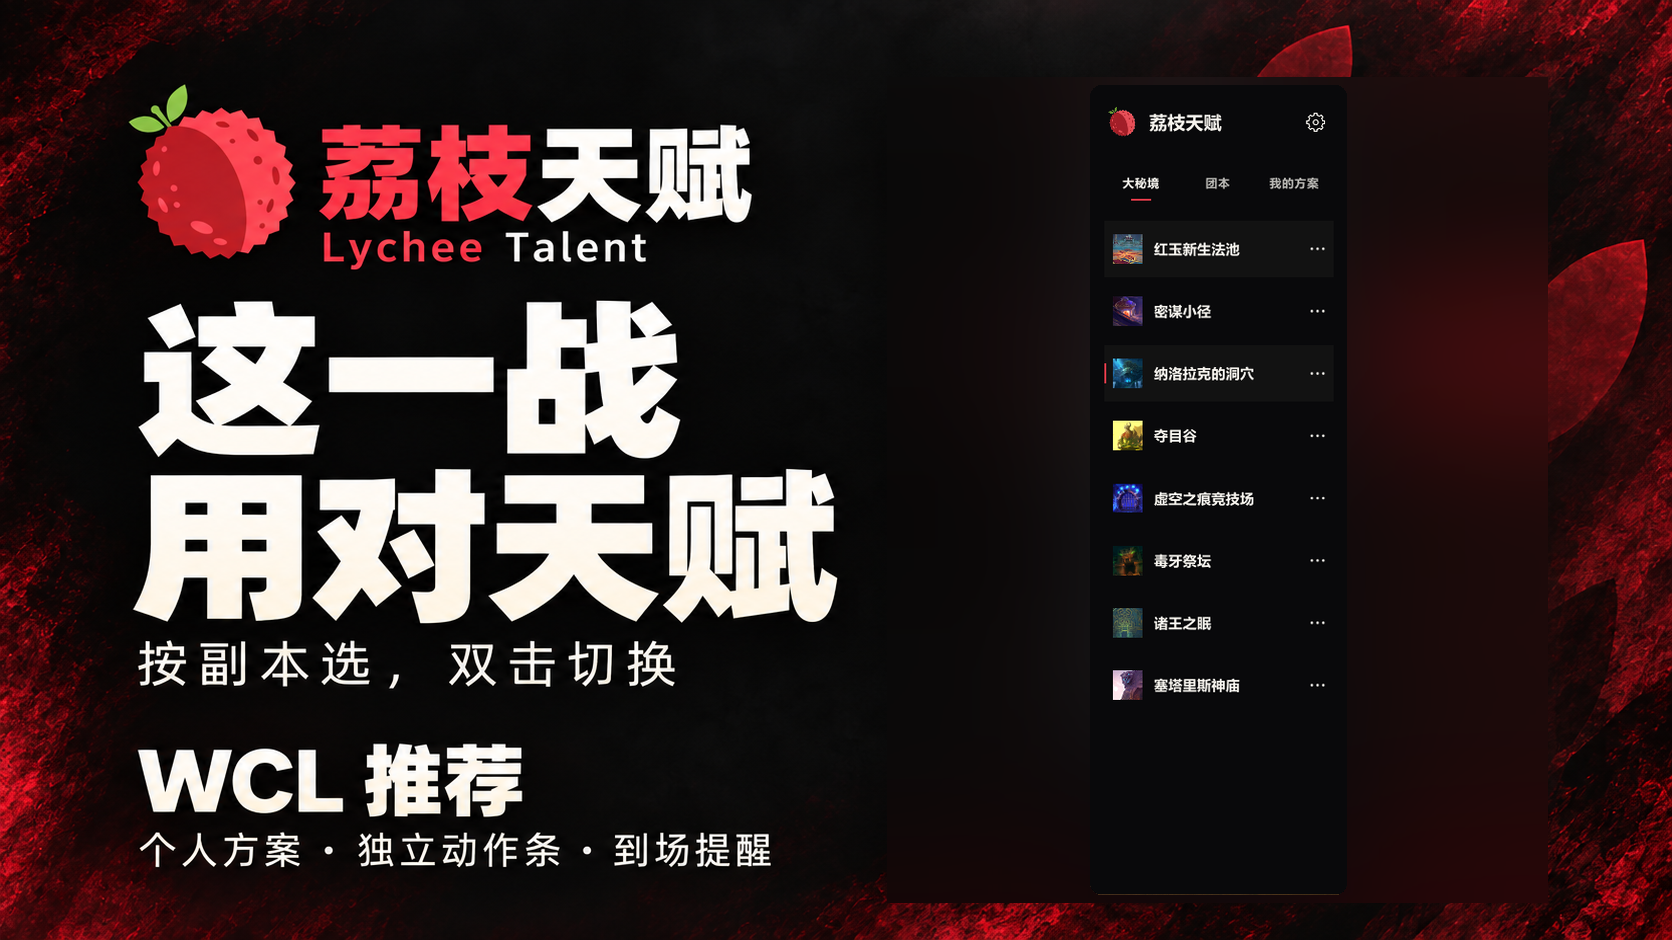
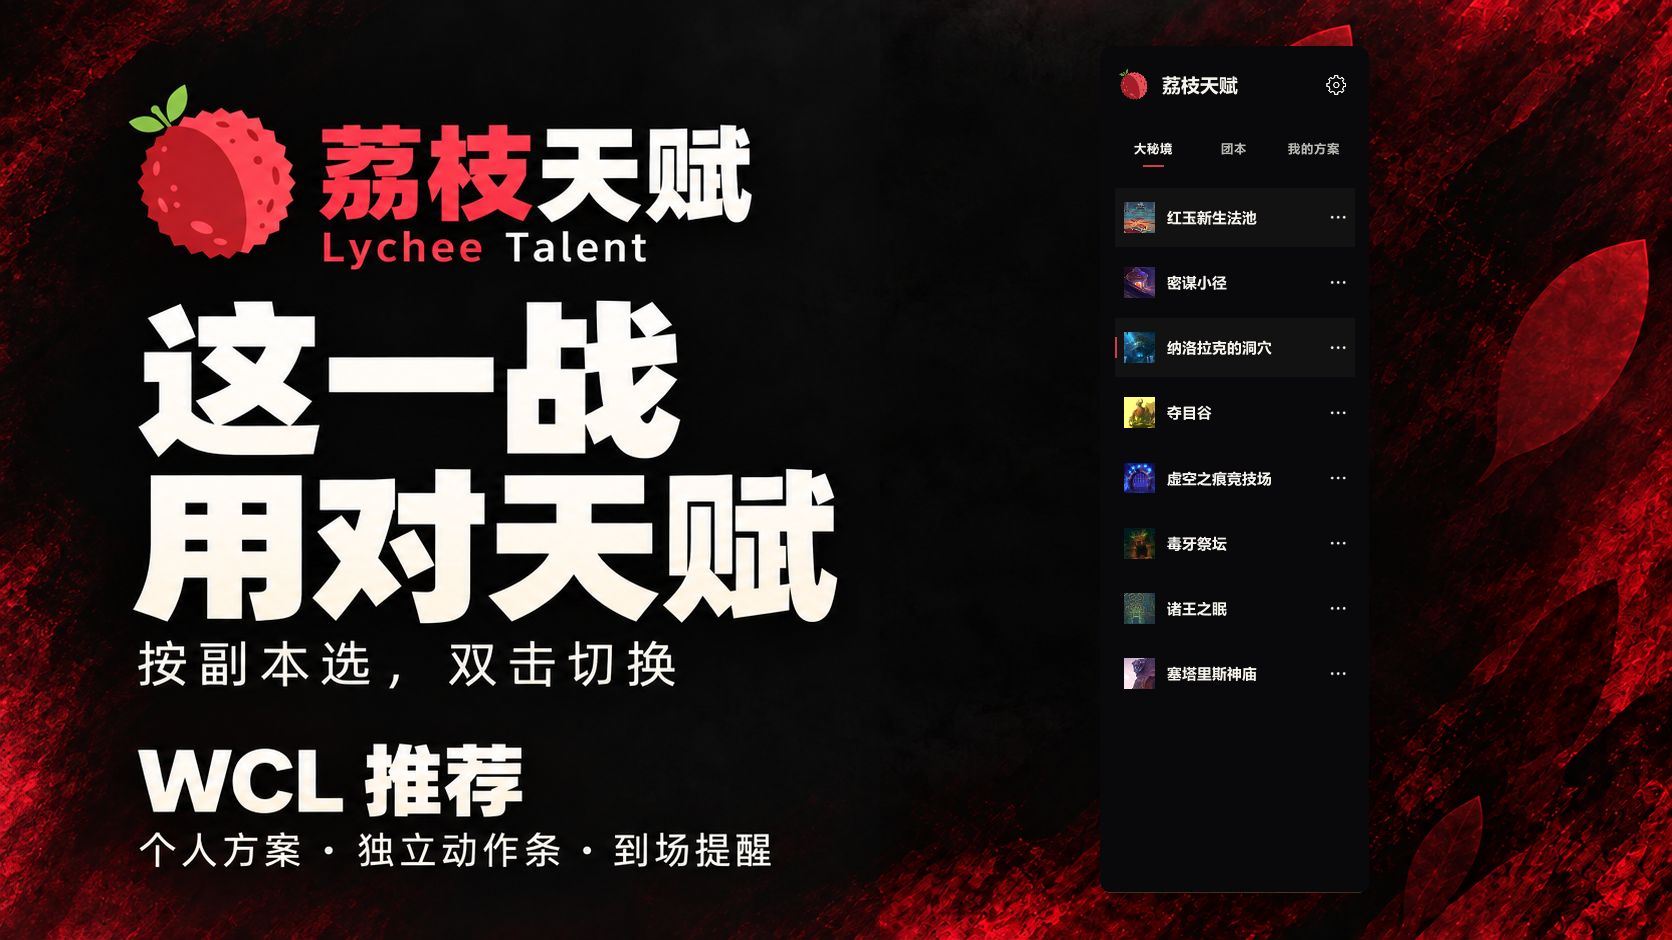
Replace blurred cover fill and preserve original screenshot pixels

Changed region(s): [[0.6531, 0.0, 1.0, 1.0], [0.5287, 0.8947, 0.7153, 1.0], [0.7464, 0.9564, 0.7775, 1.0]]

diff --git a/docs/media/README.md b/docs/media/README.md
@@ -26,4 +26,4 @@
 
 ![荔枝天赋封面](release-cover.png)
 
-封面黑红背景与标题排版参考荔枝启动器。背景和文案视觉由 imagegen 生成；右侧已替换成作者最后指定的红框内「大秘境」面板原始截图，仅裁剪和等比缩放，没有生成式重绘 UI。封面属于宣传排版，以上独立图片为真实游戏截图。
+封面黑红背景与标题排版参考荔枝启动器。背景和文案视觉由 imagegen 生成；右侧已替换成作者最后指定的红框内「大秘境」面板原始截图，以原始 269 × 847 像素贴入，仅裁剪边缘，没有缩放、模糊、锐化或生成式重绘 UI。封面属于宣传排版，以上独立图片为真实游戏截图。
